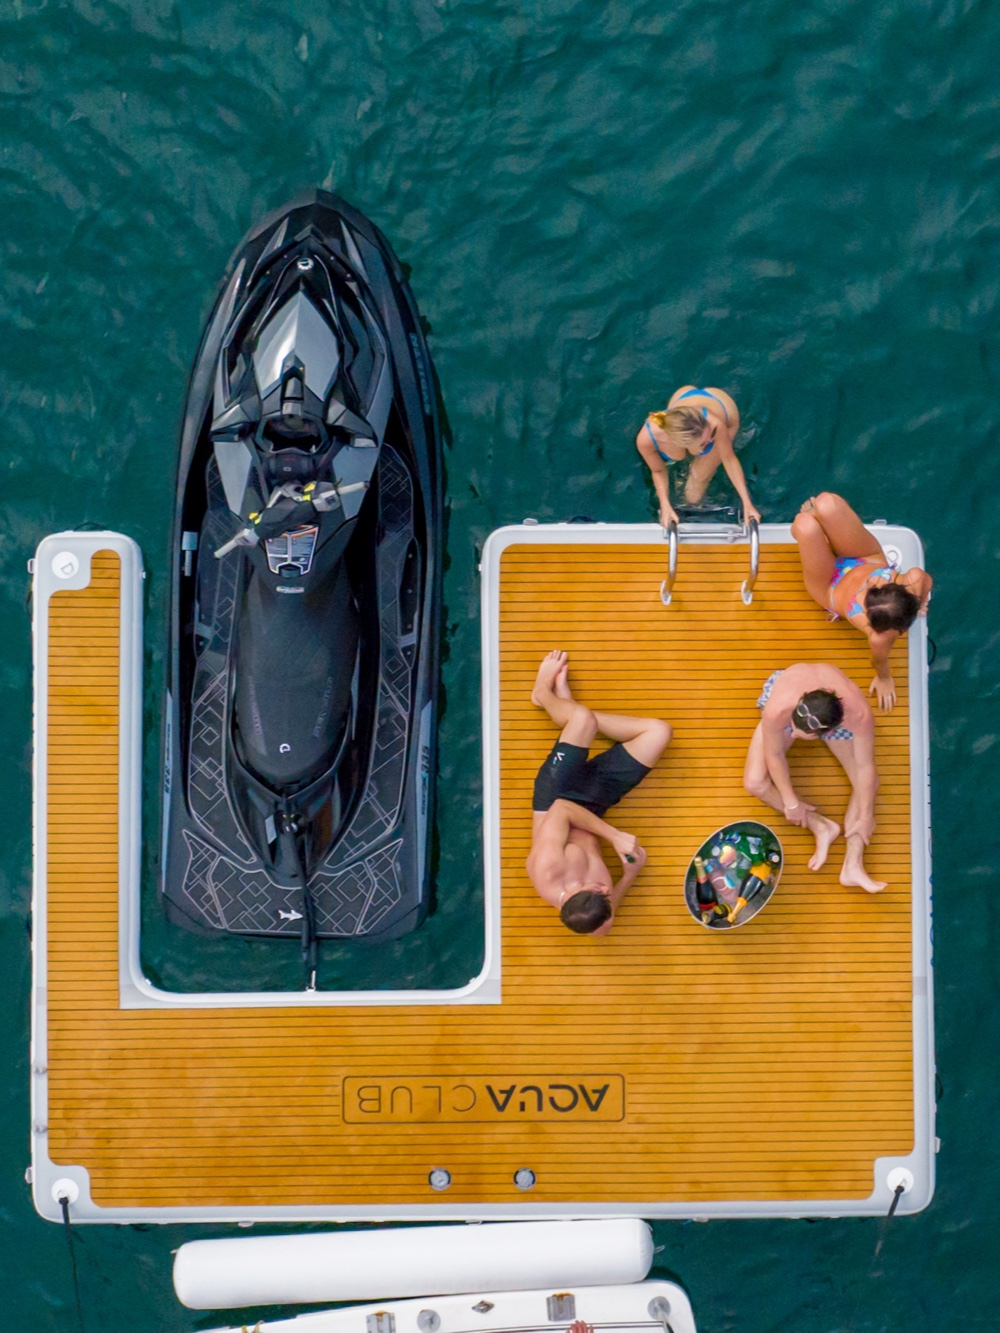
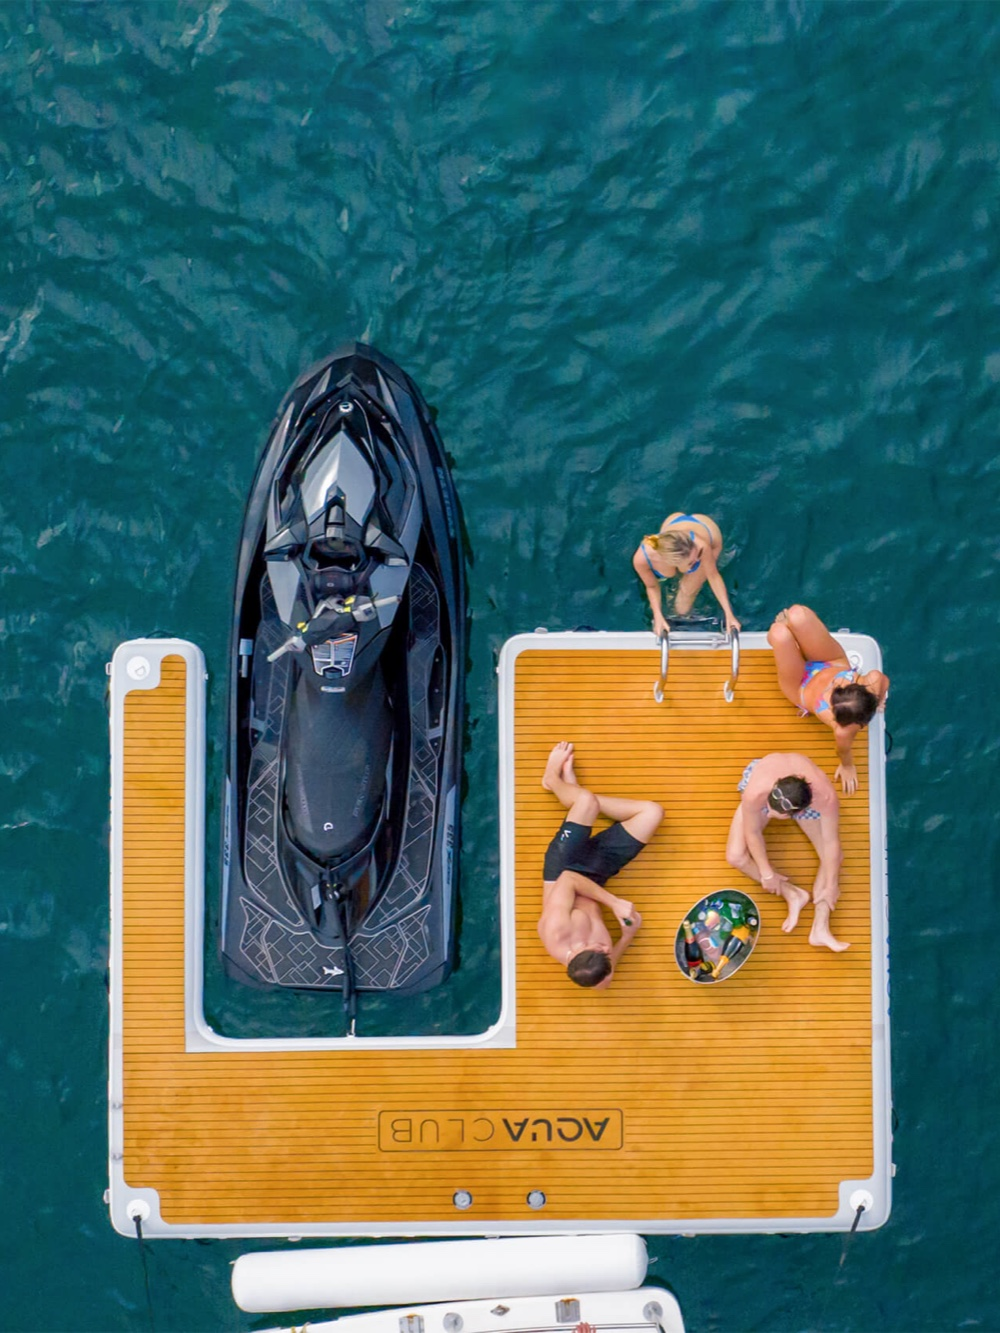
Aqua Club: new hero

diff --git a/projects/aqua-club.html b/projects/aqua-club.html
@@ -12,11 +12,11 @@
   <meta property="og:title" content="Aqua Club — Kodu Design Lab">
   <meta property="og:description" content="Aqua Club — Brand Identity. From the design journey of Lachlan Sarv, Lead UI/UX Designer at BEECH Agency, Newcastle NSW.">
   <meta property="og:url" content="https://www.kodudesignlab.com/projects/aqua-club">
-  <meta property="og:image" content="https://www.kodudesignlab.com/images/aqua-club/01-aqua-club-pontoon-3000.jpg">
+  <meta property="og:image" content="https://www.kodudesignlab.com/images/aqua-club/01-jetskidock-3000.jpg">
   <meta name="twitter:card" content="summary_large_image">
   <meta name="twitter:title" content="Aqua Club — Kodu Design Lab">
   <meta name="twitter:description" content="Aqua Club — Brand Identity. From the design journey of Lachlan Sarv, Lead UI/UX Designer at BEECH Agency, Newcastle NSW.">
-  <meta name="twitter:image" content="https://www.kodudesignlab.com/images/aqua-club/01-aqua-club-pontoon-3000.jpg">
+  <meta name="twitter:image" content="https://www.kodudesignlab.com/images/aqua-club/01-jetskidock-3000.jpg">
   <script>
     (function () {
       try {

diff --git a/index.html b/index.html
@@ -137,7 +137,7 @@
 
       <a class="project-card" href="projects/aqua-club" data-project="aqua-club">
         <div class="project-card__media">
-          <img src="images/aqua-club/cover-500.jpg" srcset="images/aqua-club/cover-500.jpg 500w, images/aqua-club/cover-1000.jpg 1000w, images/aqua-club/cover-1406.jpg 1406w" sizes="(max-width: 699px) calc(90vw - 6px), (max-width: 1199px) calc(50vw - 25px), calc(16.66vw - 12px)"
+          <img src="images/aqua-club/cover-500.jpg" srcset="images/aqua-club/cover-500.jpg 500w, images/aqua-club/cover-1000.jpg 1000w, images/aqua-club/cover-1265.jpg 1265w" sizes="(max-width: 699px) calc(90vw - 6px), (max-width: 1199px) calc(50vw - 25px), calc(16.66vw - 12px)"
                alt="Aqua Club" loading="eager" decoding="async">
         </div>
         <div class="project-card__meta">

diff --git a/projects.js b/projects.js
@@ -187,15 +187,14 @@ window.KODU_PROJECTS = {
     "linkLabel": "Check them out",
     "images": [
       {
-        "src": "images/aqua-club/01-aqua-club-pontoon",
+        "src": "images/aqua-club/01-jetskidock",
         "widths": [
           1200,
-          2000,
           3000
         ],
         "cols": 1,
-        "aspect": "16 / 10",
-        "alt": "Aqua Club: Aqua Club Pontoon"
+        "aspect": "16 / 9",
+        "alt": "Aqua Club: Jetskidock"
       },
       {
         "src": "images/aqua-club/02-jetskidock",
